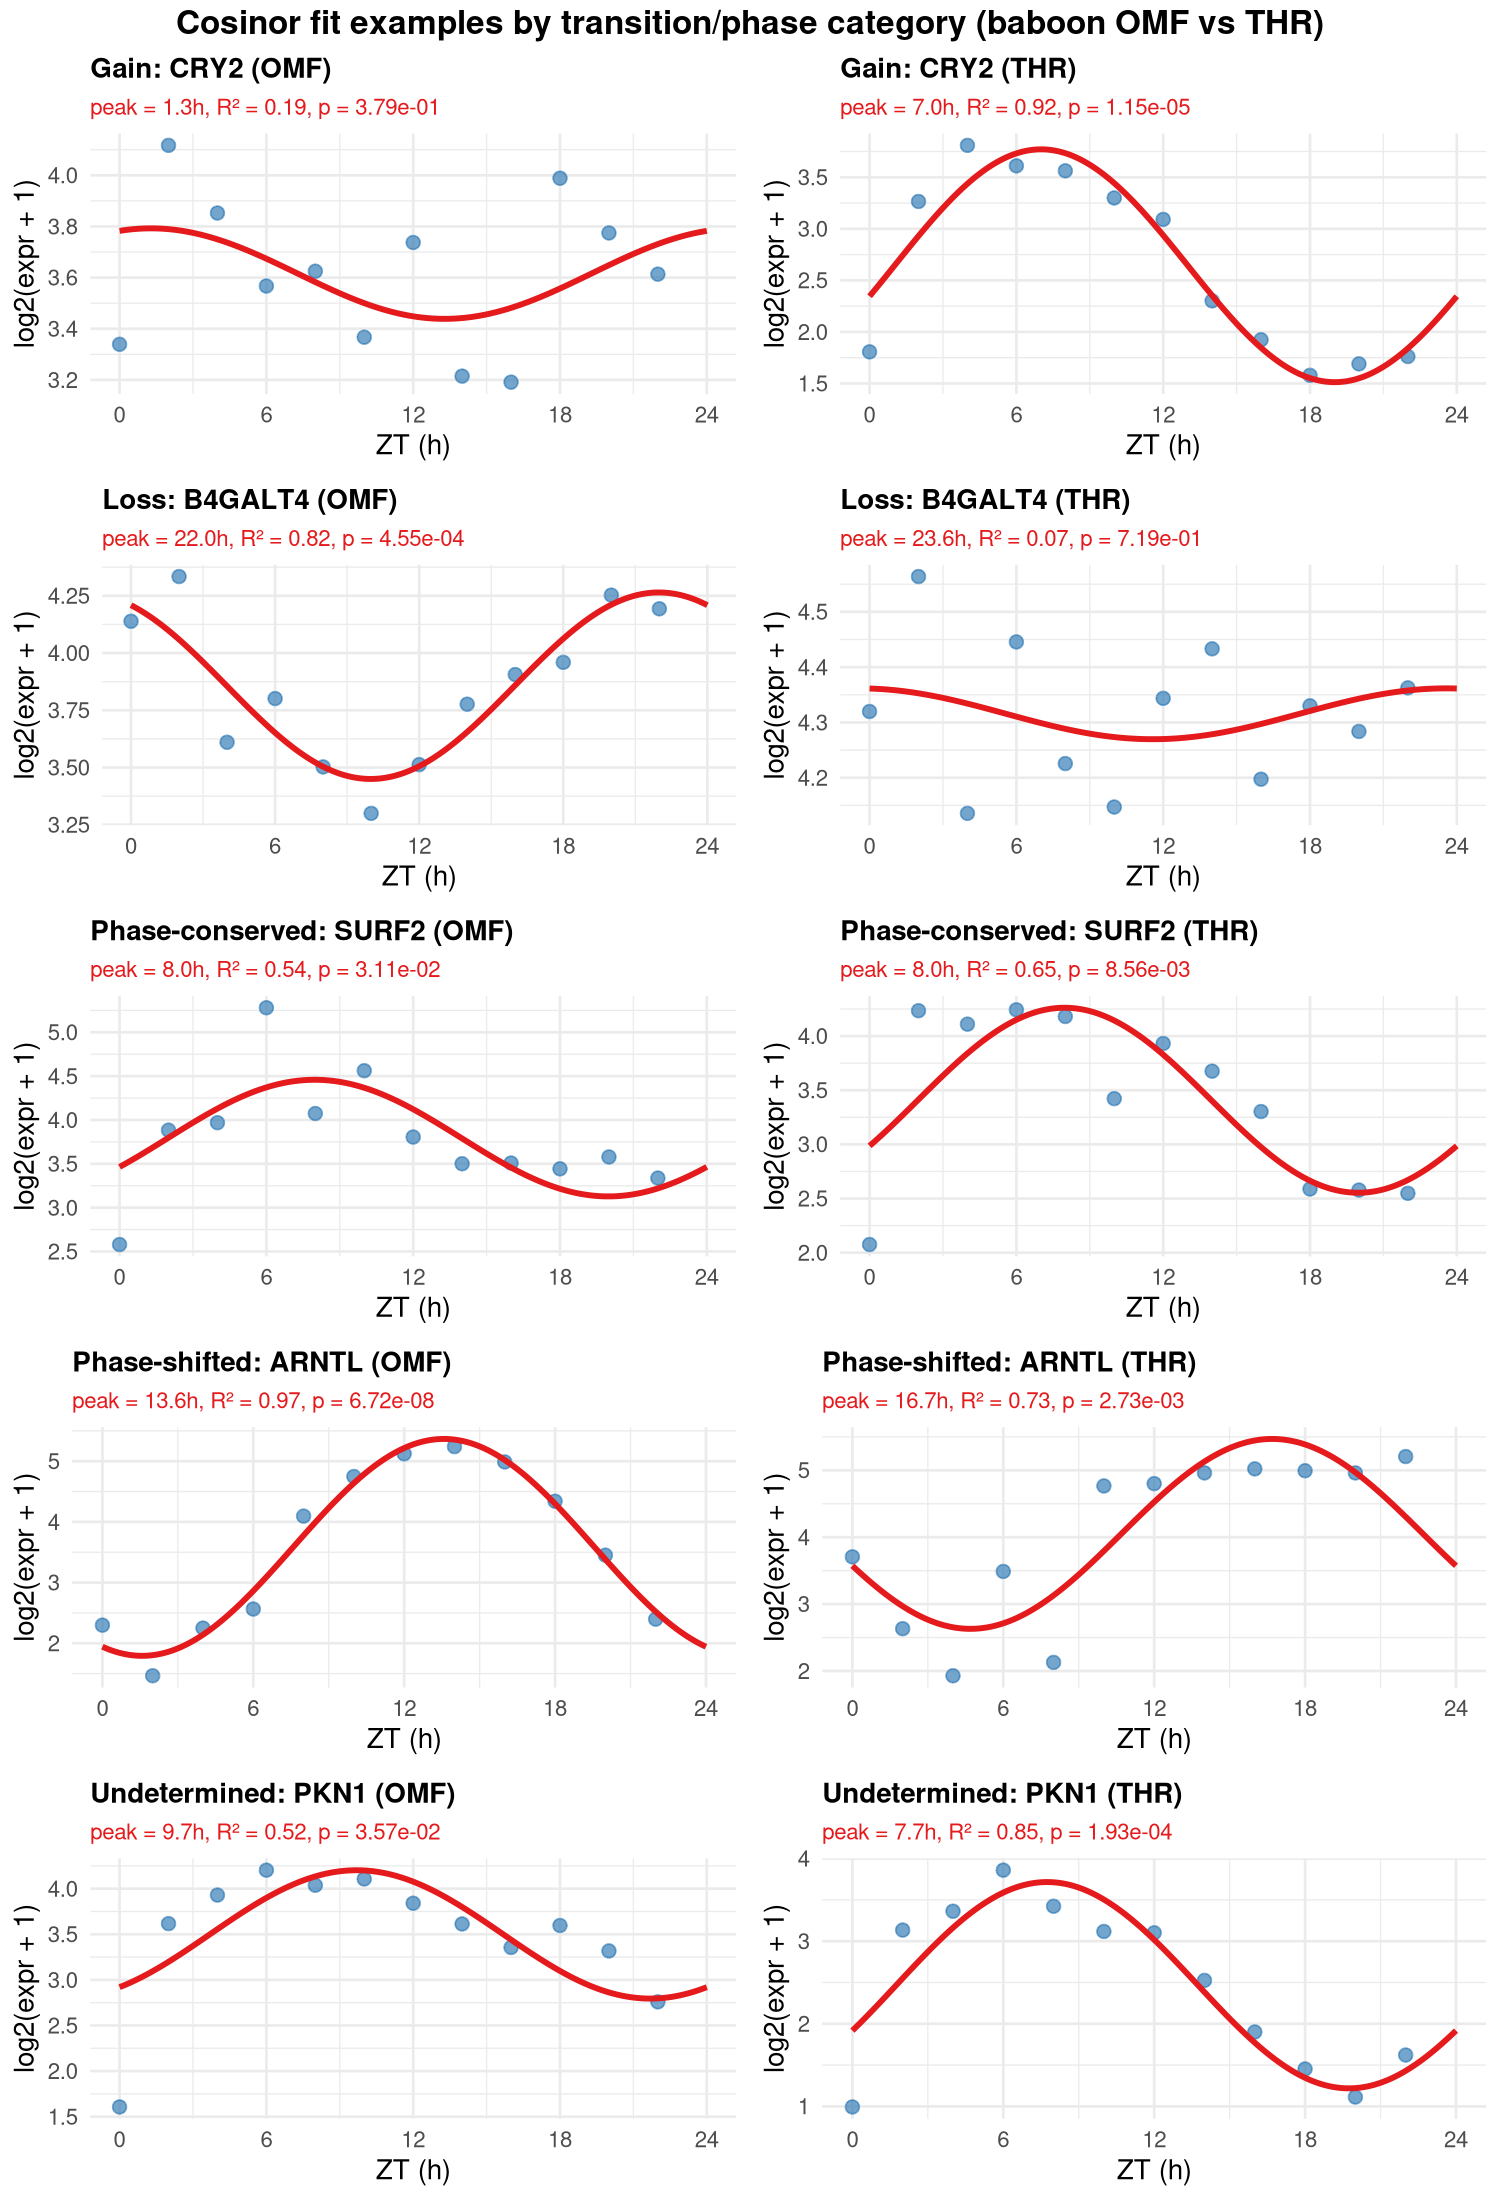
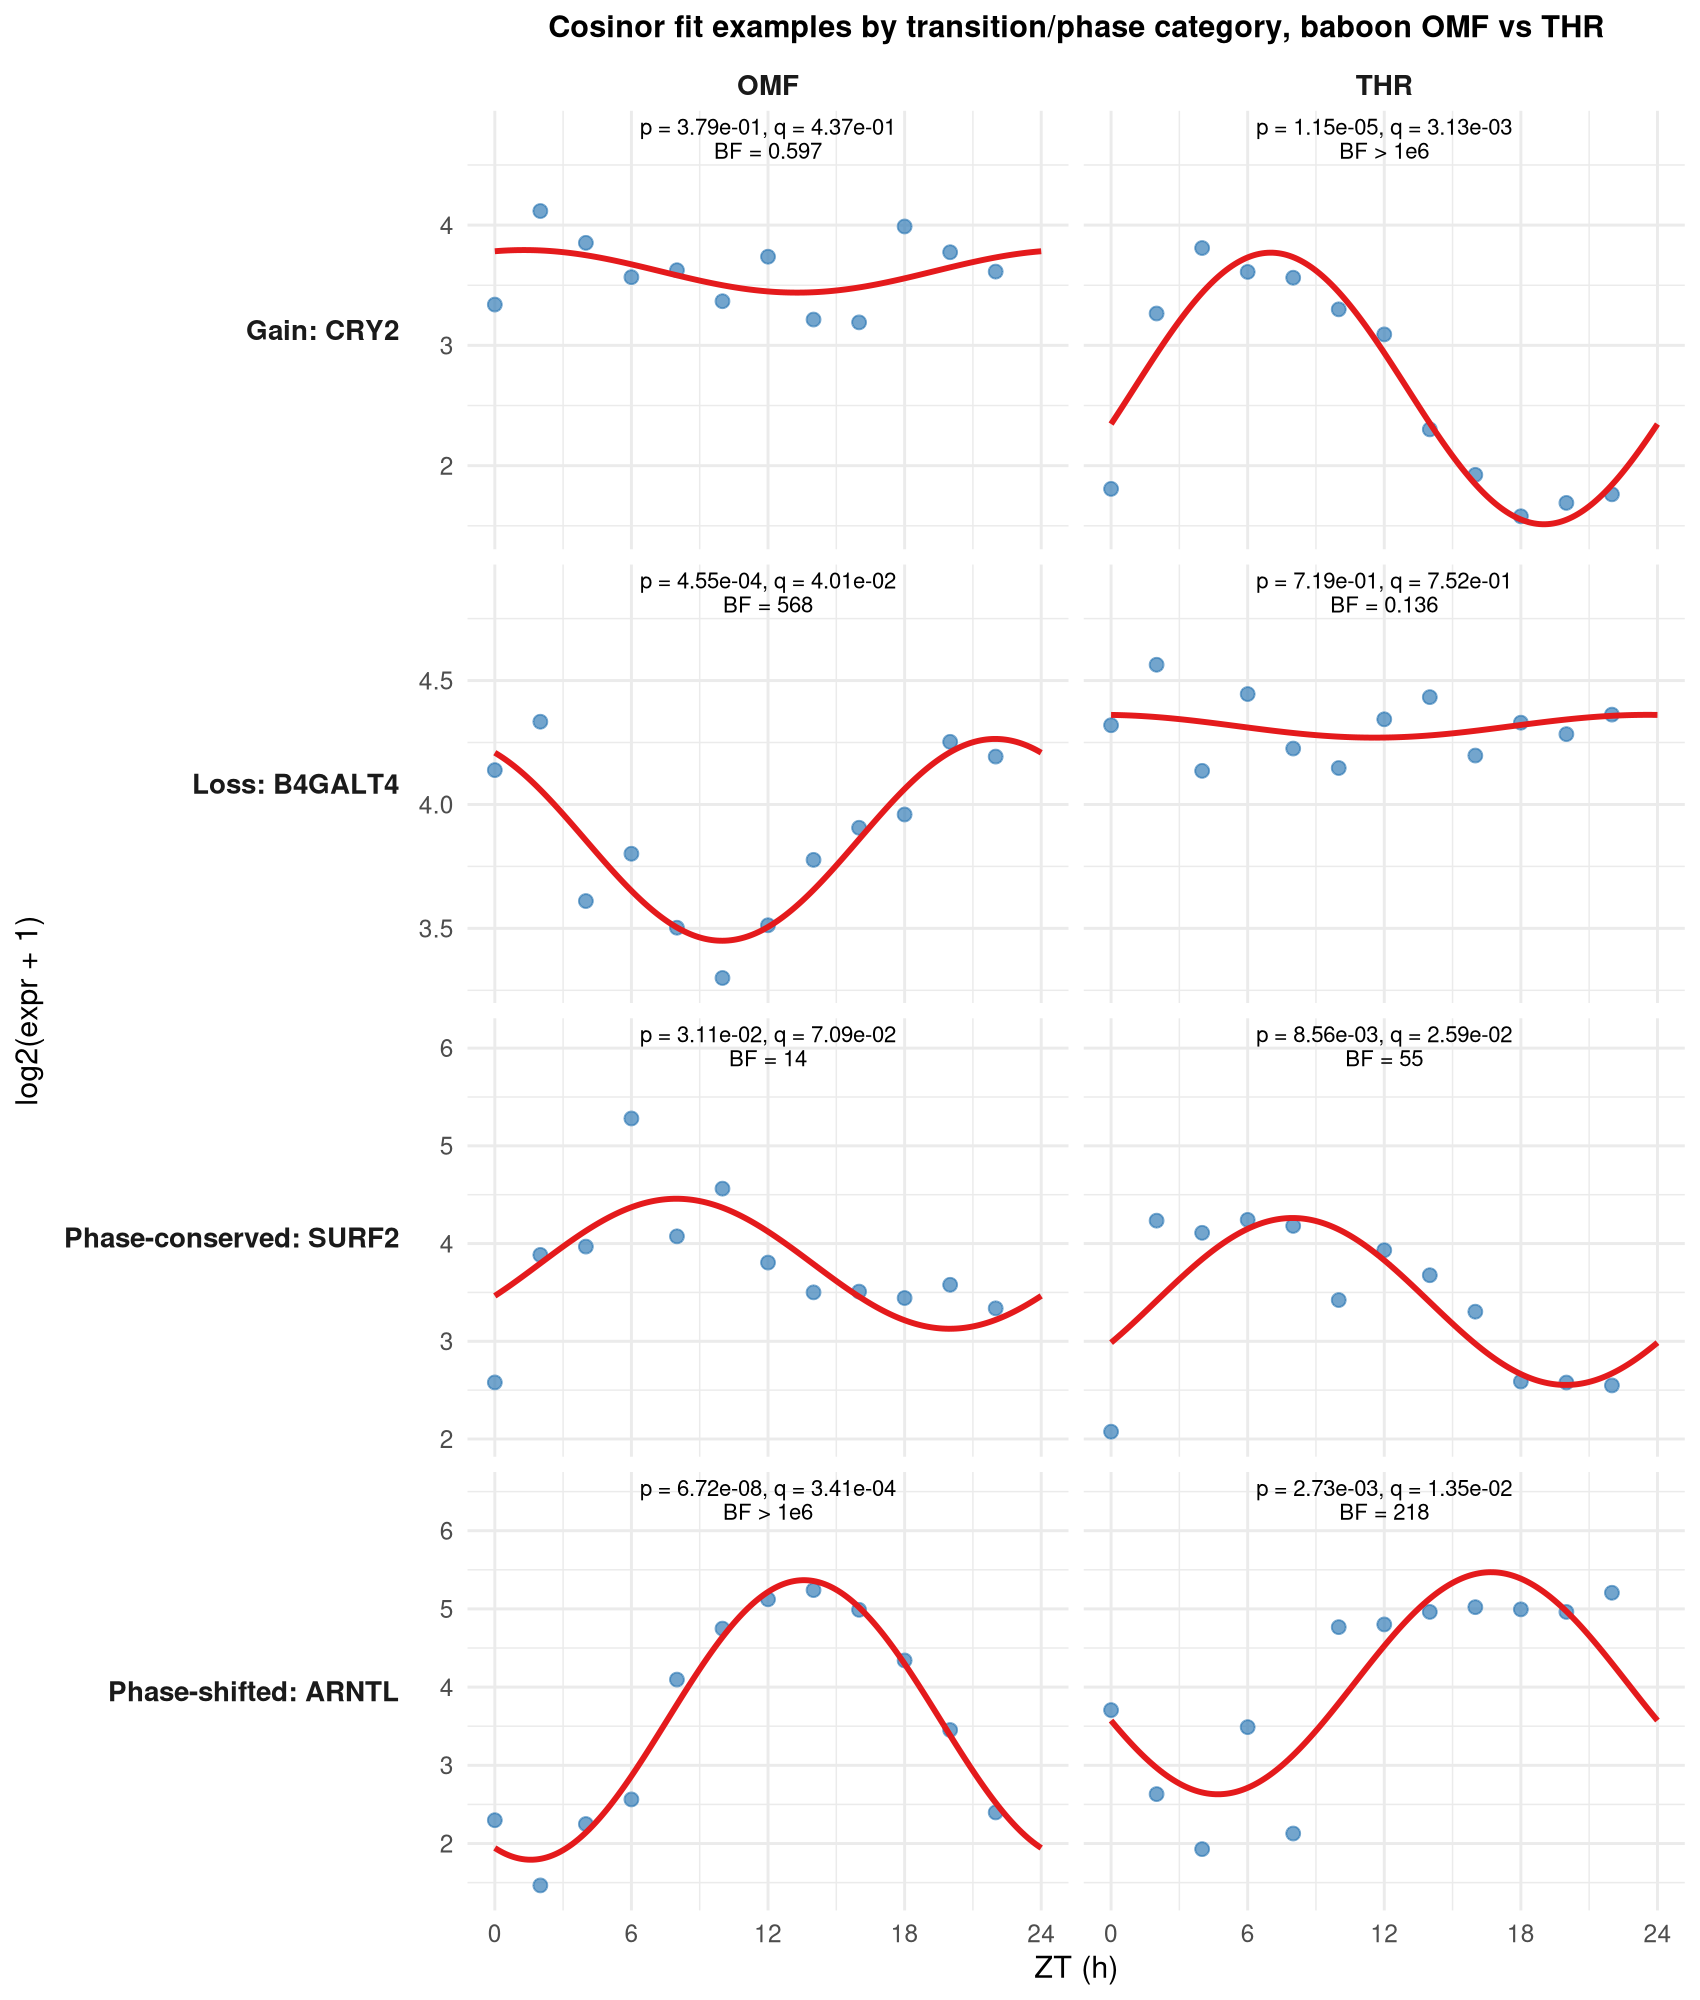
Restructure cosinor examples figure as a proper facet grid
- Layout: category+gene as vertical row labels on the left, OMF/THR as
  column headers on top, centered overall title. Replaces the previous
  grid.arrange of 10 independently-titled panels.
- Drop the Undetermined category/panel per feedback.
- Show real BH-adjusted Q-values (via Cosinor_fit(), run genome-wide,
  not a single-gene p-value) alongside p and the RJMCMC Bayes Factor in
  each panel.
- Format BF < 1 as a 3-decimal value (e.g. "0.597") instead of
  scientific notation, so sub-1 (non-rhythmic-leaning) evidence reads
  clearly at a glance.
- Fix a real indexing bug in the README's illustrative Cosinor_fit()
  snippet: its output has integer rownames, not gene symbols, so
  rhythm_OMF["CRY2", ...] silently returned NA; verified and corrected
  to filter on the gname column instead.

diff --git a/README.md b/README.md
@@ -157,27 +157,29 @@ phase <- phase_infer(phi_matrix1 = mcmc_OMF$phi, phi_matrix2 = mcmc_THR$phi,
 
 What these categories actually look like in the raw data: one example
 gene per category, plotted in both tissues with a classical OLS cosinor
-fit overlaid (`one_cosinor_OLS()`, the non-Bayesian baseline BayRC also
-ships; this fit is for visualization only, it isn't what produced the
-gain/loss/phase calls above, those come from the RJMCMC posterior):
+fit overlaid. `Cosinor_fit()` runs `one_cosinor_OLS()` (the non-Bayesian
+baseline BayRC also ships) across every gene and BH-adjusts the p-values
+into q-values, so each panel below shows a real p and q, not just a
+single-gene p-value; this classical fit is for visualization only, it
+isn't what produced the gain/loss/phase calls above, those come from the
+RJMCMC posterior:
 
 ```r
-one_cosinor_OLS(tod = baboon$zt, y = log2(baboon$expr_OMF["CRY2", ] + 1))
+rhythm_OMF <- Cosinor_fit(list(data = log2(baboon$expr_OMF + 1),
+                               time = baboon$zt, gname = baboon$gene_symbol))$rhythm
+rhythm_OMF[rhythm_OMF$gname == "CRY2", c("pvalue", "qvalue")]
 ```
 
 ![Cosinor fit examples by transition/phase category, baboon OMF vs THR](man/figures/cosinor_examples.png)
 
-`CRY2`, a core clock repressor, illustrates Gain: flat in OMF (R² = 0.19)
-and clearly rhythmic in THR (R² = 0.92). `B4GALT4` (Loss) is the mirror
-image. `SURF2` (Phase-conserved) peaks at the same hour (8.0h) in both
-tissues. `ARNTL` (BMAL1, the core clock activator) illustrates
-Phase-shifted: peak = 13.6h in OMF vs. 16.7h in THR, a real ~3h shift,
-with a strong fit in both tissues (R² = 0.97 and 0.73). `PKN1`
-(Undetermined) looks visually similar to the conserved example in both
-tissues, and that's expected: "undetermined" means the posterior
-probability of a phase shift didn't clear the BFDR threshold in either
-direction, a statistical judgment call, not necessarily a visibly messy
-pattern.
+`CRY2`, a core clock repressor, illustrates Gain: not significant in OMF
+(q = 0.44) and clearly rhythmic in THR (q = 0.003, BF > 1e6). `B4GALT4`
+(Loss) is the mirror image (OMF q = 0.04, THR q = 0.75). `SURF2`
+(Phase-conserved) peaks at the same hour (8.0h) in both tissues (q =
+0.07 in OMF, borderline; q = 0.03 in THR). `ARNTL` (BMAL1, the core clock
+activator) illustrates Phase-shifted: peak = 13.6h in OMF vs. 16.7h in
+THR, a real ~3h shift, significant in both tissues (q = 0.0003 and
+0.014).
 
 ```r
 kegg <- readRDS(system.file("extdata", "kegg_pathway_list_hsa.rds", package = "BayRC"))